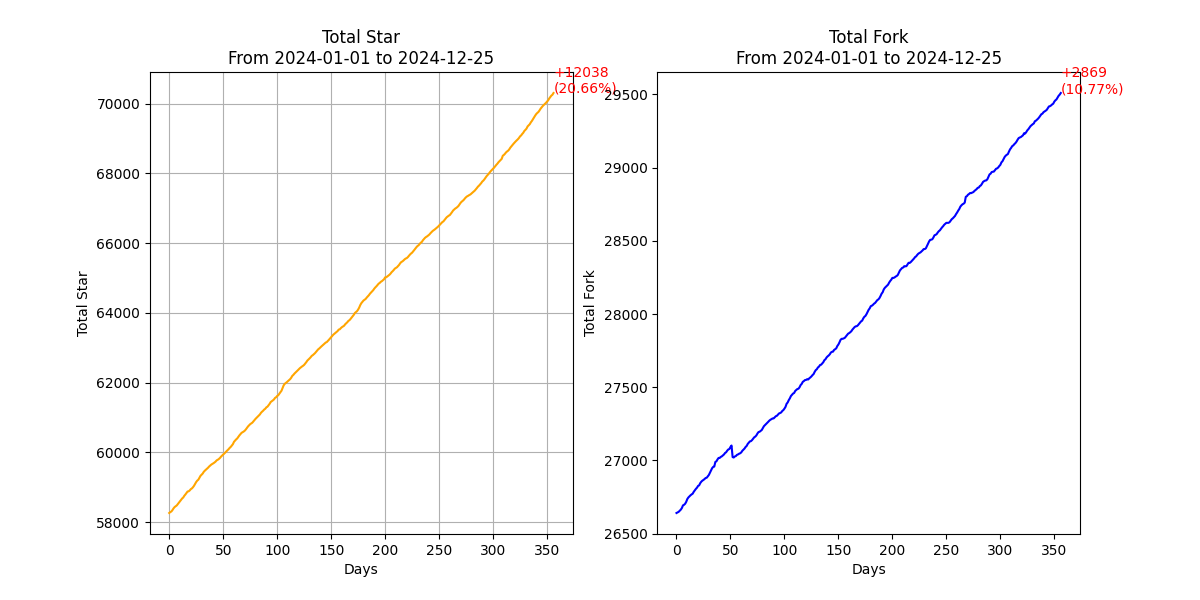
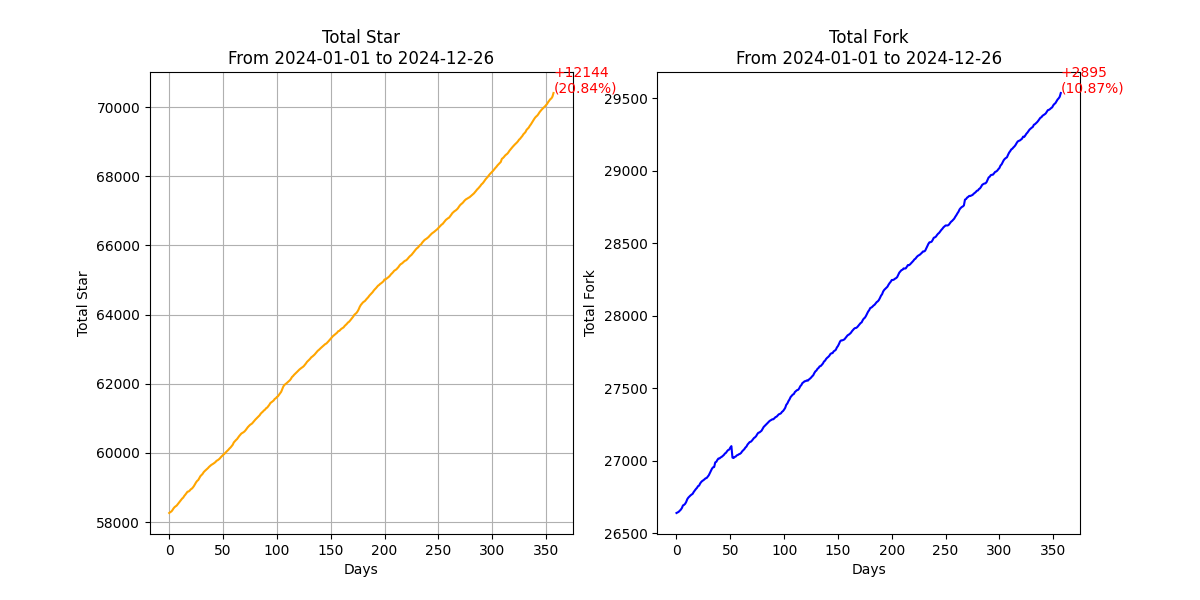
Update Espressif Systems Github Star Rank - 2024-12-26

diff --git a/rank_history/esp_rank_2024-12-25.md b/rank_history/esp_rank_2024-12-25.md
@@ -1,6 +1,6 @@
-# Espressif Systems Github Star Rank 2024-12-26
+# Espressif Systems Github Star Rank 2024-12-25
 
-## Total Star 🌟: 70458, Total Fork 🌳: 29538
+## Total Star 🌟: 70407, Total Fork 🌳: 29536
 
 [![Update Espressif Systems Github Star Rank](https://github.com/leeebo/espressif_star_counter/actions/workflows/update_rank.yml/badge.svg)](https://github.com/leeebo/espressif_star_counter/actions/workflows/update_rank.yml)
 
@@ -8,75 +8,75 @@
 
 | Repository | Stars | Forks | Description |
 |------------|-------|-------|-------------|
-| [esp-idf](https://github.com/espressif/esp-idf) | 14074 | 7367 | Espressif IoT Development Framework. Official development framework for Espressif SoCs. |
-| [arduino-esp32](https://github.com/espressif/arduino-esp32) | 13922 | 7468 | Arduino core for the ESP32 |
-| [esptool](https://github.com/espressif/esptool) | 5656 | 1392 | Espressif SoC serial bootloader utility |
-| [ESP8266_RTOS_SDK](https://github.com/espressif/ESP8266_RTOS_SDK) | 3367 | 1567 | Latest ESP8266 SDK based on FreeRTOS, esp-idf style. |
-| [esp-iot-solution](https://github.com/espressif/esp-iot-solution) | 2019 | 797 | Espressif IoT Library. IoT Device Drivers, Documentations and Solutions. |
-| [esp32-camera](https://github.com/espressif/esp32-camera) | 1983 | 650 | None |
-| [esp-who](https://github.com/espressif/esp-who) | 1733 | 469 | Face detection and recognition framework |
-| [esp-adf](https://github.com/espressif/esp-adf) | 1587 | 698 | Espressif Audio Development Framework |
+| [esp-idf](https://github.com/espressif/esp-idf) | 14066 | 7368 | Espressif IoT Development Framework. Official development framework for Espressif SoCs. |
+| [arduino-esp32](https://github.com/espressif/arduino-esp32) | 13912 | 7467 | Arduino core for the ESP32 |
+| [esptool](https://github.com/espressif/esptool) | 5653 | 1391 | Espressif SoC serial bootloader utility |
+| [ESP8266_RTOS_SDK](https://github.com/espressif/ESP8266_RTOS_SDK) | 3366 | 1567 | Latest ESP8266 SDK based on FreeRTOS, esp-idf style. |
+| [esp-iot-solution](https://github.com/espressif/esp-iot-solution) | 2017 | 797 | Espressif IoT Library. IoT Device Drivers, Documentations and Solutions. |
+| [esp32-camera](https://github.com/espressif/esp32-camera) | 1981 | 650 | None |
+| [esp-who](https://github.com/espressif/esp-who) | 1732 | 469 | Face detection and recognition framework |
+| [esp-adf](https://github.com/espressif/esp-adf) | 1586 | 698 | Espressif Audio Development Framework |
 | [vscode-esp-idf-extension](https://github.com/espressif/vscode-esp-idf-extension) | 1099 | 310 | Visual Studio Code extension for ESP-IDF projects |
-| [ESP8266_NONOS_SDK](https://github.com/espressif/ESP8266_NONOS_SDK) | 934 | 536 | ESP8266 nonOS SDK |
+| [ESP8266_NONOS_SDK](https://github.com/espressif/ESP8266_NONOS_SDK) | 935 | 536 | ESP8266 nonOS SDK |
 | [esp-at](https://github.com/espressif/esp-at) | 932 | 846 | AT application for ESP32/ESP32-C2/ESP32-C3/ESP32-C6/ESP8266 |
-| [esp-drone](https://github.com/espressif/esp-drone) | 888 | 247 | Mini Drone/Quadcopter Firmware for ESP32 and ESP32-S Series SoCs. |
-| [esp-box](https://github.com/espressif/esp-box) | 840 | 194 | The ESP-BOX is a new generation AIoT development platform released by Espressif Systems. |
-| [kicad-libraries](https://github.com/espressif/kicad-libraries) | 796 | 111 | KiCad libraries for Espressif SoCs, modules, and DevKits. |
-| [esp-mdf](https://github.com/espressif/esp-mdf) | 784 | 253 | Espressif Mesh Development Framework, limited maintain, recommend to use https://github.com/espressif/esp-mesh-lite |
+| [esp-drone](https://github.com/espressif/esp-drone) | 884 | 247 | Mini Drone/Quadcopter Firmware for ESP32 and ESP32-S Series SoCs. |
+| [esp-box](https://github.com/espressif/esp-box) | 838 | 194 | The ESP-BOX is a new generation AIoT development platform released by Espressif Systems. |
+| [kicad-libraries](https://github.com/espressif/kicad-libraries) | 795 | 111 | KiCad libraries for Espressif SoCs, modules, and DevKits. |
+| [esp-mdf](https://github.com/espressif/esp-mdf) | 782 | 253 | Espressif Mesh Development Framework, limited maintain, recommend to use https://github.com/espressif/esp-mesh-lite |
 | [ESP8266_MP3_DECODER](https://github.com/espressif/ESP8266_MP3_DECODER) | 746 | 190 | A demo that should be run with ESP8266 Non-OS SDK |
 | [esp-csi](https://github.com/espressif/esp-csi) | 733 | 110 | Applications based on Wi-Fi CSI (Channel state information), such as indoor positioning, human detection |
-| [esp-matter](https://github.com/espressif/esp-matter) | 727 | 165 | Espressif's SDK for Matter |
+| [esp-matter](https://github.com/espressif/esp-matter) | 725 | 165 | Espressif's SDK for Matter |
 | [esp-hosted](https://github.com/espressif/esp-hosted) | 724 | 171 | Hosted Solution (Linux/MCU) with ESP32 (Wi-Fi + BT + BLE) |
-| [esp-apple-homekit-adk](https://github.com/espressif/esp-apple-homekit-adk) | 626 | 64 | This is a port for Apple's Open Source HomeKit ADK |
+| [esp-apple-homekit-adk](https://github.com/espressif/esp-apple-homekit-adk) | 625 | 64 | This is a port for Apple's Open Source HomeKit ADK |
 | [esp-mqtt](https://github.com/espressif/esp-mqtt) | 619 | 258 | ESP32 mqtt component |
 | [esp-sr](https://github.com/espressif/esp-sr) | 610 | 108 | Speech recognition |
-| [esp-skainet](https://github.com/espressif/esp-skainet) | 604 | 136 | Espressif intelligent voice assistant |
+| [esp-skainet](https://github.com/espressif/esp-skainet) | 601 | 136 | Espressif intelligent voice assistant |
 | [esp-dl](https://github.com/espressif/esp-dl) | 593 | 126 | Espressif deep-learning library for AIoT applications |
 | [esp-homekit-sdk](https://github.com/espressif/esp-homekit-sdk) | 579 | 109 | None |
-| [esp-now](https://github.com/espressif/esp-now) | 561 | 97 | A connectionless Wi-Fi communication protocol |
-| [esp32-nesemu](https://github.com/espressif/esp32-nesemu) | 551 | 173 | Proof-of-concept NES emulator for the ESP32 |
+| [esp-now](https://github.com/espressif/esp-now) | 560 | 98 | A connectionless Wi-Fi communication protocol |
+| [esp32-nesemu](https://github.com/espressif/esp32-nesemu) | 552 | 173 | Proof-of-concept NES emulator for the ESP32 |
 | [esp-dsp](https://github.com/espressif/esp-dsp) | 495 | 92 | DSP library for ESP-IDF |
 | [esp-rainmaker](https://github.com/espressif/esp-rainmaker) | 473 | 157 | ESP RainMaker Agent for firmware development |
 | [ESP8266_AT](https://github.com/espressif/ESP8266_AT) | 471 | 227 | This project is not maintained, please use https://github.com/espressif/esp-at. |
 | [rust-esp32-example](https://github.com/espressif/rust-esp32-example) | 451 | 36 | Example of Rust integration into an ESP-IDF project, for ESP32 series of chips |
 | [esp-tflite-micro](https://github.com/espressif/esp-tflite-micro) | 406 | 88 | TensorFlow Lite Micro for Espressif Chipsets |
-| [esp-serial-flasher](https://github.com/espressif/esp-serial-flasher) | 399 | 117 | Library for flashing Espressif SoCs from other MCUs. |
-| [esp-dev-kits](https://github.com/espressif/esp-dev-kits) | 379 | 186 | Docs, Schematics, Factory Firmwares for ESP Development Kits |
+| [esp-serial-flasher](https://github.com/espressif/esp-serial-flasher) | 398 | 116 | Library for flashing Espressif SoCs from other MCUs. |
+| [esp-dev-kits](https://github.com/espressif/esp-dev-kits) | 378 | 186 | Docs, Schematics, Factory Firmwares for ESP Development Kits |
 | [openocd-esp32](https://github.com/espressif/openocd-esp32) | 366 | 134 | OpenOCD branch with ESP32 JTAG support |
 | [esp-aliyun](https://github.com/espressif/esp-aliyun) | 341 | 151 | Aliyun Iotkit-embedded, support esp32 & esp8266. |
 | [esp-idf-template](https://github.com/espressif/esp-idf-template) | 336 | 201 | Template application for https://github.com/espressif/esp-idf |
-| [idf-eclipse-plugin](https://github.com/espressif/idf-eclipse-plugin) | 322 | 122 | Espressif-IDE (ESP-IDF Eclipse Plugin) for ESP-IDF CMake based projects 5.x and above |
+| [idf-eclipse-plugin](https://github.com/espressif/idf-eclipse-plugin) | 321 | 122 | Espressif-IDE (ESP-IDF Eclipse Plugin) for ESP-IDF CMake based projects 5.x and above |
 | [esp-usb-bridge](https://github.com/espressif/esp-usb-bridge) | 306 | 34 | USB to UART&JTAG bridge, implemented on ESP32-S2 or ESP32-S3 |
 | [esptool-js](https://github.com/espressif/esptool-js) | 301 | 111 | Javascript implementation of flasher tool for Espressif chips, running in web browser using WebSerial. |
 | [esp-va-sdk](https://github.com/espressif/esp-va-sdk) | 296 | 83 | Espressif's Voice Assistant SDK: Alexa, Google Voice Assistant, Google DialogFlow |
 | [esp-aws-iot](https://github.com/espressif/esp-aws-iot) | 275 | 166 | AWS IoT SDK for ESP32 based chipsets |
-| [esp-bsp](https://github.com/espressif/esp-bsp) | 216 | 114 | Board support components for Espressif development boards |
+| [esp-bsp](https://github.com/espressif/esp-bsp) | 215 | 114 | Board support components for Espressif development boards |
 | [esp-idf-provisioning-android](https://github.com/espressif/esp-idf-provisioning-android) | 208 | 138 | Android Provisioning application for ESP-IDF Unified provisioning |
-| [esp-protocols](https://github.com/espressif/esp-protocols) | 204 | 136 | Collection of ESP-IDF components related to networking protocols |
+| [esp-protocols](https://github.com/espressif/esp-protocols) | 203 | 136 | Collection of ESP-IDF components related to networking protocols |
 | [esp32-doom](https://github.com/espressif/esp32-doom) | 202 | 39 | A proof-of-concept port of PrBoom to the ESP32. Needs psram hardware. |
-| [esp-zigbee-sdk](https://github.com/espressif/esp-zigbee-sdk) | 188 | 34 | Espressif Zigbee SDK |
 | [ESP31_RTOS_SDK](https://github.com/espressif/ESP31_RTOS_SDK) | 188 | 58 | ESP31B SDK based on FreeRTOS. For ESP32 please see http://github.com/espressif/esp-idf |
+| [esp-zigbee-sdk](https://github.com/espressif/esp-zigbee-sdk) | 187 | 34 | Espressif Zigbee SDK |
 | [esp-jumpstart](https://github.com/espressif/esp-jumpstart) | 180 | 58 | Jumpstart from concept to production |
 | [esp-azure](https://github.com/espressif/esp-azure) | 178 | 93 | SDK to connect ESP8266 and ESP32 to Microsoft Azure IoT services |
 | [esp-iot-bridge](https://github.com/espressif/esp-iot-bridge) | 173 | 54 | A smart bridge to make both ESP and the other MCU or smart device can access the Internet. |
 | [esp32-wifi-lib](https://github.com/espressif/esp32-wifi-lib) | 167 | 72 | ESP32 WiFi stack precompiled libraries |
 | [esp-gdbstub](https://github.com/espressif/esp-gdbstub) | 163 | 38 | None |
-| [idf-extra-components](https://github.com/espressif/idf-extra-components) | 160 | 93 | Additional components for ESP-IDF, maintained by Espressif |
+| [idf-extra-components](https://github.com/espressif/idf-extra-components) | 159 | 93 | Additional components for ESP-IDF, maintained by Espressif |
 | [esp32-arduino-lib-builder](https://github.com/espressif/esp32-arduino-lib-builder) | 155 | 173 | None |
 | [esp-nn](https://github.com/espressif/esp-nn) | 149 | 24 | Optimised Neural Network functions for Espressif chipsets |
 | [esp-google-iot](https://github.com/espressif/esp-google-iot) | 143 | 44 | Google Cloud IoT SDK as an ESP-IDF Component |
 | [esp-idf-provisioning-ios](https://github.com/espressif/esp-idf-provisioning-ios) | 139 | 65 | None |
 | [esp-mesh-lite](https://github.com/espressif/esp-mesh-lite) | 138 | 25 | A lite version Wi-Fi Mesh, each node can access the network over the IP layer. |
 | [esp8266-rtos-sample-code](https://github.com/espressif/esp8266-rtos-sample-code) | 129 | 86 | None |
-| [esp-modbus](https://github.com/espressif/esp-modbus) | 123 | 55 | ESP-Modbus - the officially suppported library for Modbus protocol (serial RS485 + TCP over WiFi or Ethernet). |
+| [esp-modbus](https://github.com/espressif/esp-modbus) | 122 | 55 | ESP-Modbus - the officially suppported library for Modbus protocol (serial RS485 + TCP over WiFi or Ethernet). |
 | [esp-thread-br](https://github.com/espressif/esp-thread-br) | 121 | 26 | Espressif Thread Border Router SDK |
 | [book-esp32c3-iot-projects](https://github.com/espressif/book-esp32c3-iot-projects) | 111 | 35 | 《ESP32-C3 物联网工程开发实战》配套代码 |
 | [esp-insights](https://github.com/espressif/esp-insights) | 107 | 29 | ESP Insights: A remote diagnostics/observability framework for connected devices |
 | [esp-rainmaker-android](https://github.com/espressif/esp-rainmaker-android) | 105 | 61 | ESP RainMaker Android app sources |
 | [idf-installer](https://github.com/espressif/idf-installer) | 104 | 21 | ESP IDF Windows Installer |
 | [pytest-embedded](https://github.com/espressif/pytest-embedded) | 93 | 27 | A pytest plugin that designed for embedded testing |
-| [esp-lwip](https://github.com/espressif/esp-lwip) | 91 | 131 | Fork of lwIP (https://savannah.nongnu.org/projects/lwip/) with ESP-IDF specific patches |
 | [usb-pids](https://github.com/espressif/usb-pids) | 91 | 140 | Customer-allocated USB PIDs under the Espressif VID |
+| [esp-lwip](https://github.com/espressif/esp-lwip) | 90 | 130 | Fork of lwIP (https://savannah.nongnu.org/projects/lwip/) with ESP-IDF specific patches |
 | [esp-wasmachine](https://github.com/espressif/esp-wasmachine) | 84 | 6 | The Machine which can run WASM applications. |
 | [esp-idf-cxx](https://github.com/espressif/esp-idf-cxx) | 81 | 15 | C++ wrapper classes for ESP-IDF components. |
 | [esp-ali-smartliving](https://github.com/espressif/esp-ali-smartliving) | 80 | 35 | 阿里云生活物联网平台 & 天猫精灵 IoT 开放平台 |
